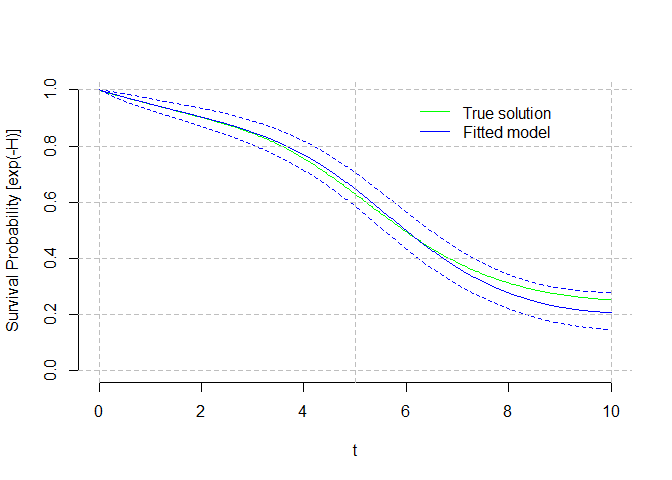
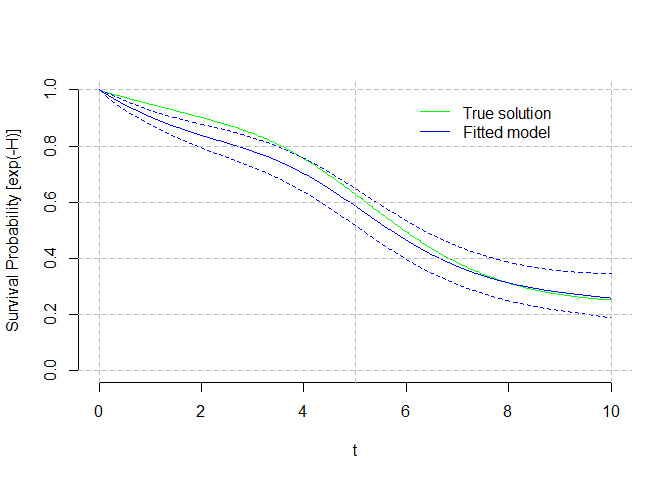
Adding some error management

diff --git a/README.md b/README.md
@@ -71,25 +71,24 @@ hist( SimDat$time[ which(SimDat$status==0)], main="", xlab="t", breaks="Freedman
    timeout = seq( 0, 10, length.out = 501 )
    Result = hspcore(yd=SimDat, ORDER=4, Exterior.knots = c(0,10), Interior.knots=NULL, SelectBestKnots = TRUE, time=timeout, Bootstrap = 200, verbose=FALSE )  
 #> [1] "Automatic search for K the number of interior knots of the B-spline hazard function"
-#> [1] "K=0, m2loglik=245.13, DOF=4, AICc=253.26, knots= 0 10"
-#> [1] "K=1, m2loglik=237.52, DOF=5, AICc=247.72, knots= 0 5.2 10"
-#> [1] "K=2, m2loglik=234.52, DOF=6, AICc=246.81, knots= 0 4.2 6.2 10"
-#> [1] "K=3, m2loglik=233.71, DOF=7, AICc=248.09, knots= 0 3.6 5.2 6.7 10"
-#> [1] "K=4, m2loglik=231.09, DOF=8, AICc=247.58, knots= 0 3.1 4.6 5.7 6.9 10"
-#> [1] "K=5, m2loglik=230.39, DOF=9, AICc=249.01, knots= 0 2.5 4.2 5.2 6.2 7.1 10"
-#> [1] "K=6, m2loglik=230.33, DOF=10, AICc=251.08, knots= 0 2.1 3.8 4.7 5.5 6.5 7.4 10"
-#> [1] "K=7, m2loglik=229.83, DOF=11, AICc=252.75, knots= 0 1.8 3.6 4.4 5.2 5.9 6.7 7.5 10"
-#> [1] "K=8, m2loglik=228.1, DOF=12, AICc=253.19, knots= 0 1.8 3.4 4.2 4.8 5.5 6.2 6.9 7.6 10"
-#> [1] "K=9, m2loglik=228.89, DOF=13, AICc=256.16, knots= 0 1.4 3.1 3.9 4.6 5.2 5.7 6.4 6.9 7.7 10"
-#> [1] "K=10, m2loglik=227.26, DOF=14, AICc=256.73, knots= 0 1.3 2.9 3.7 4.3 4.8 5.5 5.9 6.6 7 7.9 10"
-#> [1] "K=11, m2loglik=225.21, DOF=15, AICc=256.9, knots= 0 1.2 2.5 3.6 4.2 4.6 5.2 5.5 6.2 6.7 7.1 8 10"
-#> [1] "K=12, m2loglik=225.21, DOF=16, AICc=259.13, knots= 0 1.2 2.2 3.5 4 4.4 4.9 5.4 5.8 6.4 6.8 7.3 8 10"
-#> [1] "K=13, m2loglik=221.54, DOF=17, AICc=257.7, knots= 0 1 2.1 3.3 3.8 4.3 4.7 5.2 5.5 6 6.5 6.9 7.4 8.1 10"
-#> [1] "K=14, m2loglik=221.74, DOF=18, AICc=260.17, knots= 0 0.8 2 3.1 3.7 4.2 4.6 4.9 5.4 5.7 6.2 6.6 6.9 7.4 8.1 10"
+#> [1] "K=0, m2loglik=287.04, DOF=4, AICc=295.17, knots= 0 10"
+#> [1] "K=1, m2loglik=282.82, DOF=5, AICc=293.03, knots= 0 4.5 10"
+#> [1] "K=2, m2loglik=277.18, DOF=6, AICc=289.47, knots= 0 3.2 5.5 10"
+#> [1] "K=3, m2loglik=278.18, DOF=7, AICc=292.56, knots= 0 2.1 4.5 6 10"
+#> [1] "K=4, m2loglik=275.48, DOF=8, AICc=291.98, knots= 0 1.6 4 5 6.3 10"
+#> [1] "K=5, m2loglik=274.06, DOF=9, AICc=292.68, knots= 0 1.4 3.2 4.5 5.5 6.6 10"
+#> [1] "K=6, m2loglik=273.47, DOF=10, AICc=294.23, knots= 0 1.2 2.7 4.1 4.8 5.8 6.8 10"
+#> [1] "K=7, m2loglik=272.24, DOF=11, AICc=295.15, knots= 0 0.9 2.1 3.7 4.5 5.2 6 7.1 10"
+#> [1] "K=8, m2loglik=273.11, DOF=12, AICc=298.19, knots= 0 0.8 1.8 3.2 4.2 4.8 5.5 6.2 7.3 10"
+#> [1] "K=9, m2loglik=271.62, DOF=13, AICc=298.89, knots= 0 0.7 1.6 2.9 4 4.5 5 5.7 6.3 7.4 10"
+#> [1] "K=10, m2loglik=271.2, DOF=14, AICc=300.67, knots= 0 0.6 1.4 2.3 3.7 4.3 4.7 5.3 5.9 6.5 7.6 10"
+#> [1] "K=11, m2loglik=271.12, DOF=15, AICc=302.81, knots= 0 0.6 1.4 2.1 3.2 4 4.5 4.9 5.5 6 6.6 7.7 10"
+#> [1] "K=12, m2loglik=270.63, DOF=16, AICc=304.54, knots= 0 0.5 1.2 1.9 3 3.9 4.3 4.7 5.2 5.6 6.1 6.7 7.8 10"
+#> [1] "K=13, m2loglik=271.15, DOF=17, AICc=307.31, knots= 0 0.4 1.2 1.7 2.7 3.6 4.1 4.5 4.8 5.4 5.8 6.3 6.8 7.9 10"
+#> [1] "K=14, m2loglik=270.39, DOF=18, AICc=308.81, knots= 0 0.4 1 1.6 2.3 3.2 4 4.3 4.7 5 5.5 5.9 6.3 7 7.9 10"
 #> [1] "SEARCH RESULT: We use 2 interior B-spline knots"
-#> [1] "K= 2 DOF= 6 knots= 0 4.2 6.2 10"
+#> [1] "K= 2 DOF= 6 knots= 0 3.2 5.5 10"
 #> [1] "Variance estimation using bootstrap"
-#> Warning in log(aux): NaNs produced
 ```
 
 <img src="man/figures/README-result-figures-side-1.png" width="50%" /><img src="man/figures/README-result-figures-side-2.png" width="50%" /><img src="man/figures/README-result-figures-side-3.png" width="50%" /><img src="man/figures/README-result-figures-side-4.png" width="50%" />
